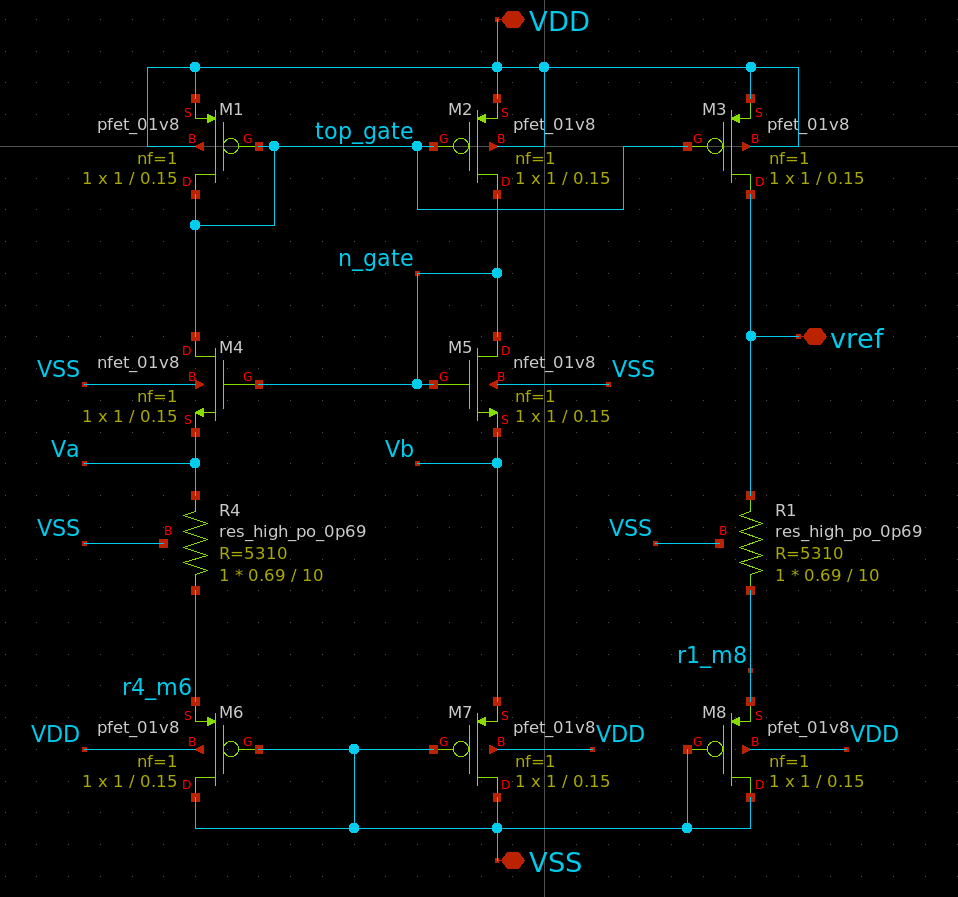
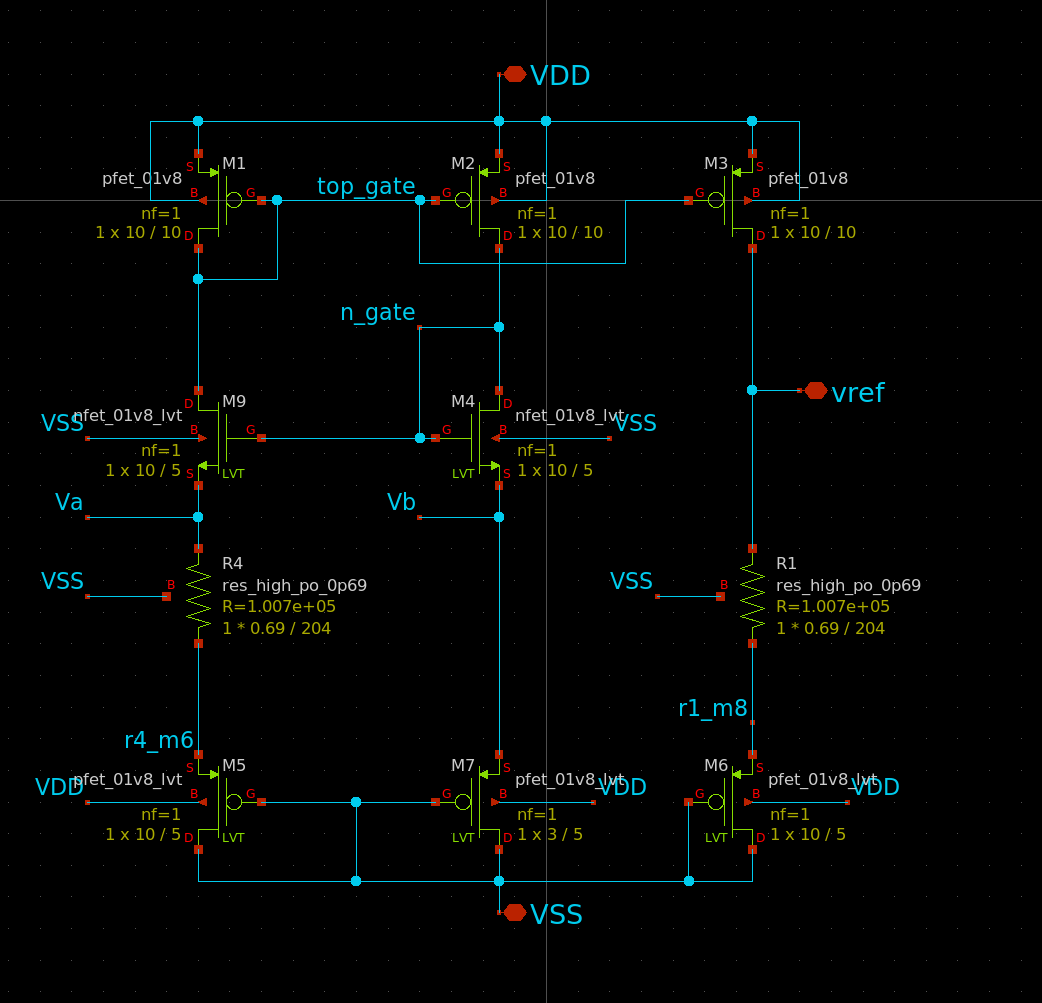
docs

diff --git a/docs/info.md b/docs/info.md
@@ -19,11 +19,11 @@ You can also include images in this folder and reference them in the markdown. E
 
 ## Simulation
 
-Simulated output is 0.71 to 0.725v across the 10 to 120 degrees C.
+Simulated output is 0.714 to 0.716v across 10 to 120 degrees C.
 
-![startup](bandgap_startup.png)
+Simulated output is 0.6 to 0.8v across 1.6 to 2v VDD.
 
-![output](bandgap_output.png)
+![output](vdd_and_temp_sweep.png)
 
 ## How to test
 
